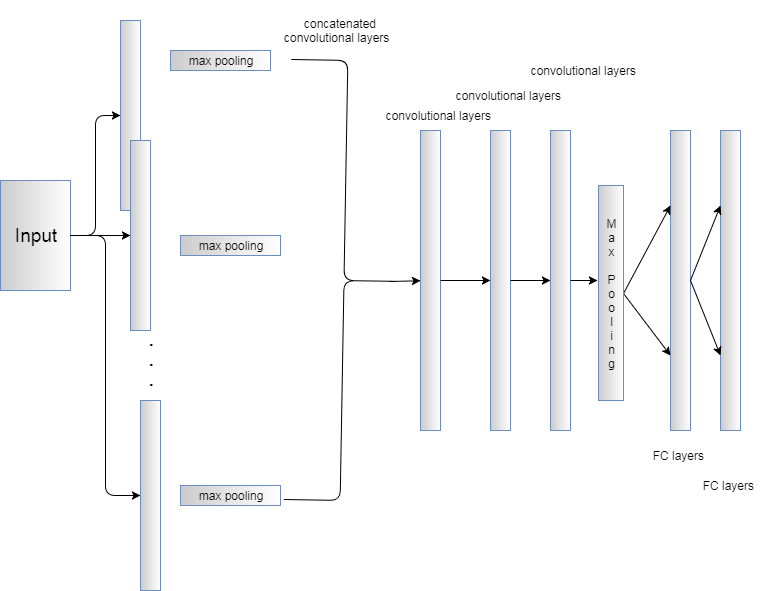
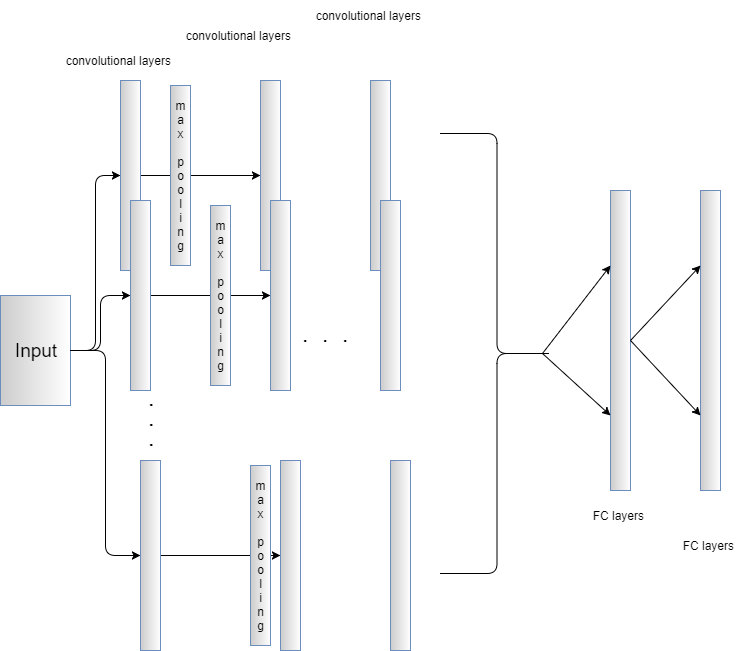
update

diff --git a/Challenge-Report/main.tex b/Challenge-Report/main.tex
@@ -33,7 +33,7 @@ For this task, the char dictionary will contain only 26 alphabet characters, so 
 This one hot representation would make sense since each word including spaces or other will deterministically be mapped to another aphetic space, so the concatenated chars may still contain the semantic meaning though the separation of each independent word can not be really found. In addition, ngram is chosen to represent the article in the raw feature space. To achieve a more robust feature extraction, a few n grams representation of each article will be stacked together.
 
 \subsection{NOVEL CNN}
-For novel classification, one uncertain issue to decide the appropriate size of filter in n gram convolutional layer; since the document is encrypted it is difficult to have a proper kernel size. So before the sequential model, a concatenated convolution layers with different kernel size is designed before the sequential model. After the the paralleled concatenated layers, I applied 3 convolutional layers and 2 fully connected layers. The architecture of the \textbf{NOVEL CNN} is shown in Fig.\ref{cnn}.
+For novel classification, one uncertain issue to decide the appropriate size of filter in n gram convolutional layer; since the document is encrypted it is difficult to have a proper kernel size. So before the sequential model, a concatenated convolution layers with different kernel size is designed before the sequential model. After the the paralleled concatenated layers, I applied 2 fully connected layers. The architecture of the \textbf{NOVEL CNN} is shown in Fig.\ref{cnn}.
 
 In addition to control the overfitting issues, a $50$ dropout rate is added after each fully connected layers. The length selection of each text will be mean of the text length in the training corpus. It is believed that the volume of the content in this task will contain enough information for text classification. Gradient descent is applied to perform the optimization.
 
@@ -46,7 +46,7 @@ In addition to control the overfitting issues, a $50$ dropout rate is added afte
 
 \section{Experiment}\label{exp}
 
-The data set contain more 30000 corpus. 80\% will be applied as training set and the rest of the data will be the test. 
+The data set contain more 30000 corpus. 80\% will be applied as training set and the rest of the data will be the test.
 \begin{table}
 \centering
 \begin{tabular}{|c|c|c|}
